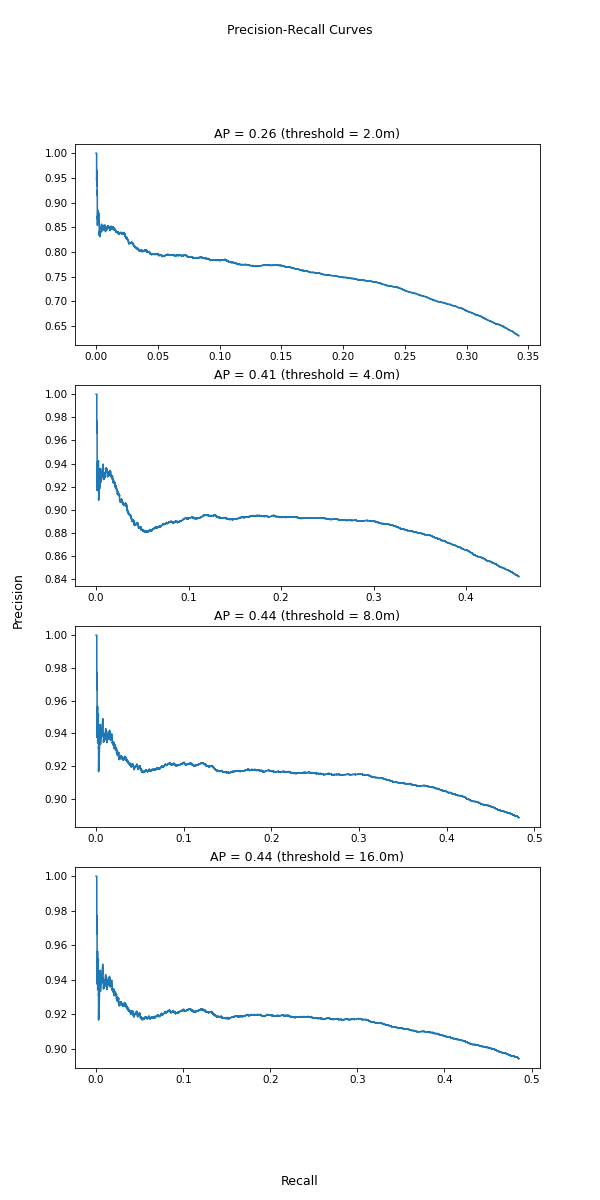
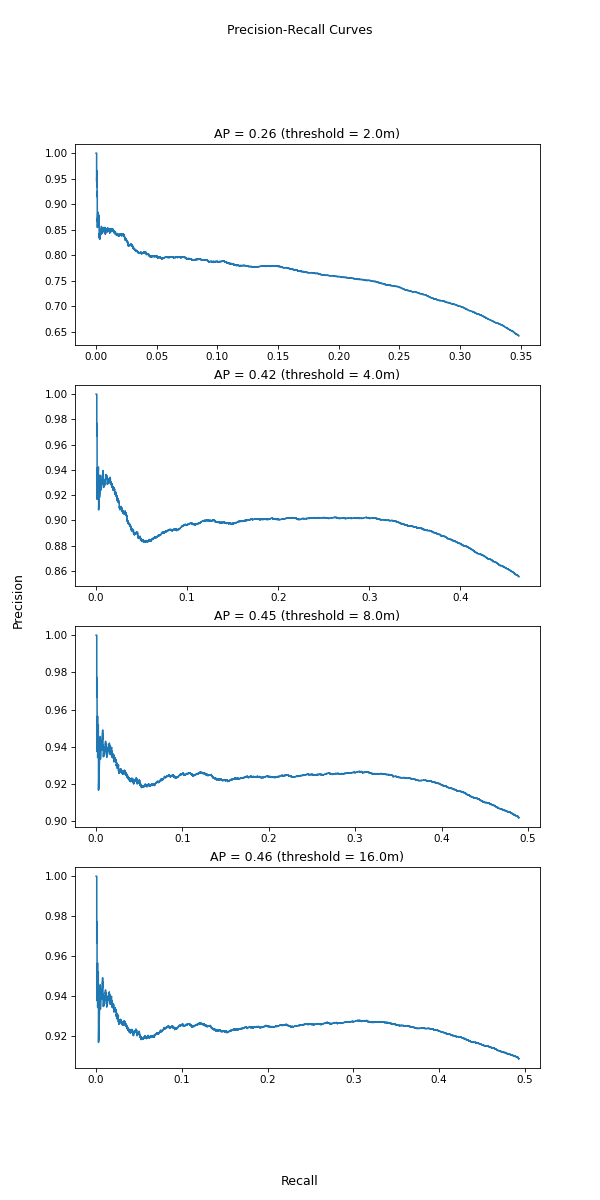
minor fix in part 2.3 and update outputs

diff --git a/detection/metrics/average_precision.py b/detection/metrics/average_precision.py
@@ -95,7 +95,7 @@ def compute_precision_recall_curve(
         for i in range(d):
             distances = distance_table[:, i].reshape(l)
             # If the label is matched, then set the element in distance array as 0
-            labels_binary_mask = (labels_match_binary >= 0)
+            labels_binary_mask = (labels_match_binary > 0)
             distances[~labels_binary_mask] = -1
             # indexs of available labels
             positive_distances_indices = (distances >= 0).nonzero().flatten()
